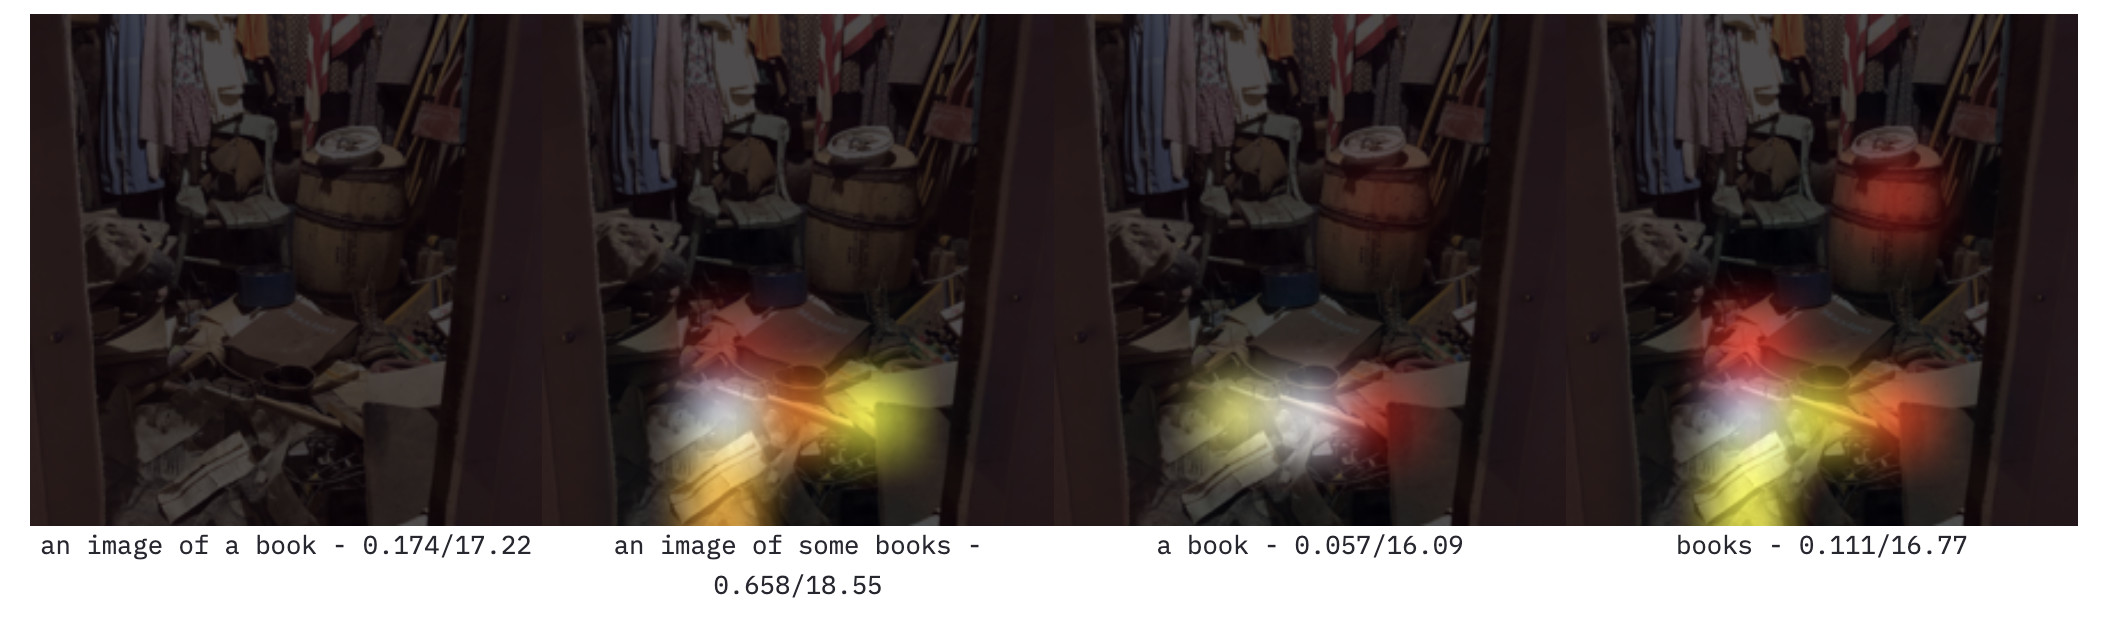
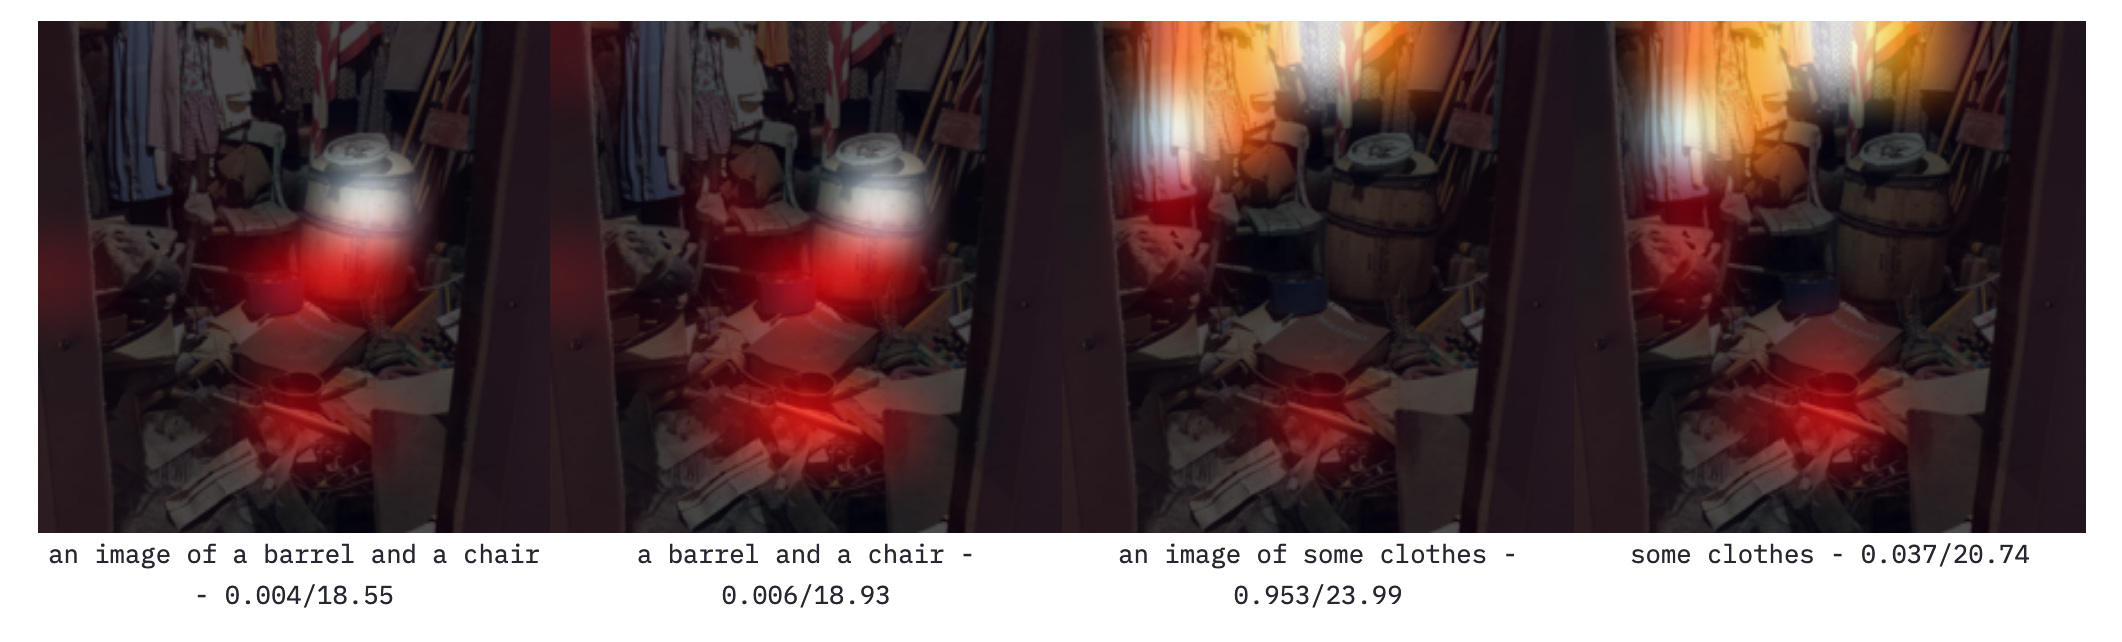
corrected example

diff --git a/README.md b/README.md
@@ -28,9 +28,8 @@ Another example of how well saliency maps capture the objects of interest. Even 
 
 
 ### Insight: A prime/prefix can influence results
-Using a prime like "an image of" can increase the similarity of close descriptions and image embeddings and decrease similarity for descriptions that are off. See the following book example. 
+Using a prime like "an image of" can change the similarity of close descriptions and image embeddings. The phrase "a barrel and a chair" without prefix seems is slightly more similar to the image embedding. The difference for "some clothes" with and without prefix are more significant. Independent of the prefix, the saliency maps seem to point to the same objects. 
 <img src="assets/clipper_image_primes.jpg" width=100% >
-Surprisingly, the phrase "an image of a book" does not produce a significant saliency map. Does this align with our human understanding of the phrase? We would expect a more prototypical image of a book rather than a book as one item in a complex room scene. Answers are welcome :) 
 
 ### Insight: Text adversaries are dominant
 It seems that text labels on top of an images are dominant over image content. In the following example, we observe a very strong focus on the word "pharao" which is completely outside of the image context. Even small sub-phrases, like "ph" or "pha" already guide the saliency strictly towards the text label.
